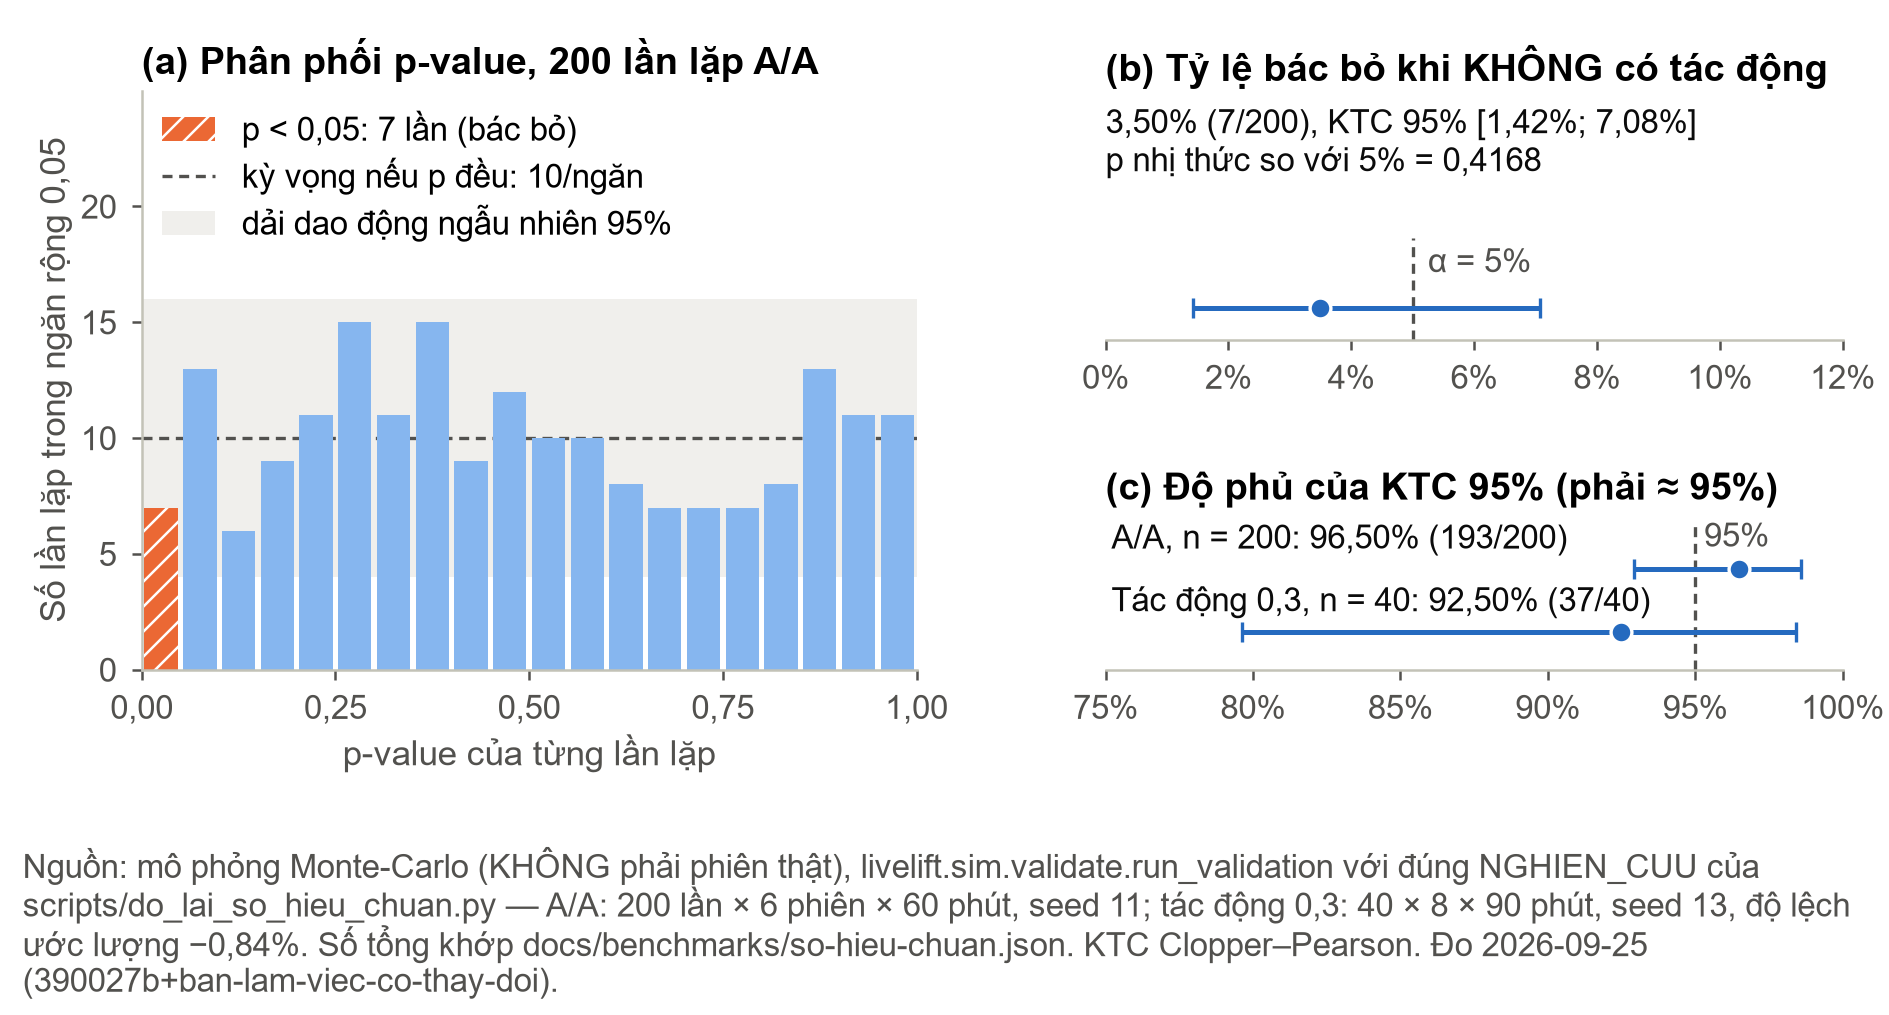
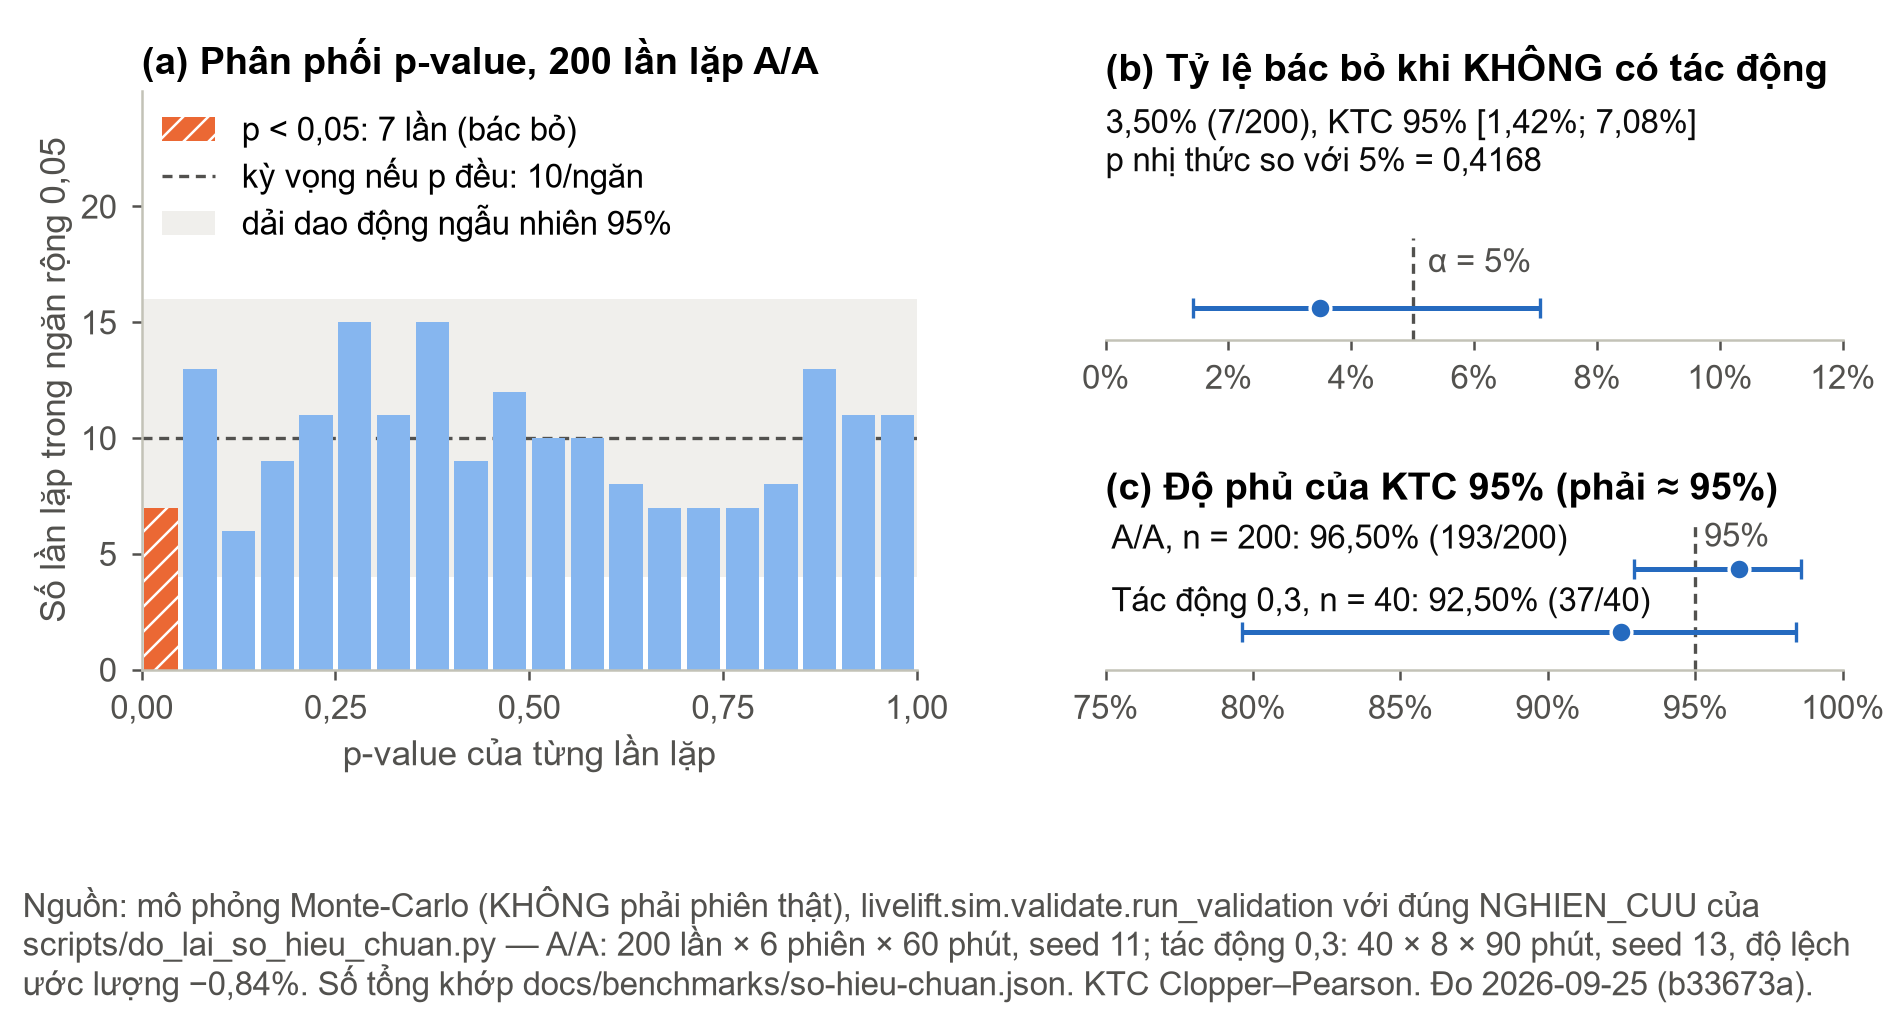
Hinh 3 va 5 ho so: tinh lai Monte-Carlo tren cay sach b33673a
Vi sao: chan hinh 3 va 5 in ban_git cua lan tinh, dang la
"390027b+ban-lam-viec-co-thay-doi" (tinh tren cay ban, khong ai tai lap
duoc tu mot commit). Chay lai ve_hinh_ho_so.py --tinh-lai (ca h1-h7) tren
cay SACH o b33673a; ban git doc mot lan dau main nen ca hai tep ghi b33673a.
Them cong du lieu: ban_git cua hieu-chuan.json va hieu-ung-luu.json phai la
mot commit (mo rong 2 test co san, khong them test moi nen so test khong doi).

Kiem bang:
- Tinh lai trung TUNG lan lap voi ban cu (chi doi ban_git, giay, moi_truong).
- Script tu doi chieu so-hieu-chuan.json: A/A 7/200 (3,50%), phu 193/200
  (96,50%); thu hoi phu 37/40 (92,50%), lech -0,84%. Hieu ung luu 72/75,
  57/75, 43/75 (96/76/57%).
- h1, h2, h4, h6, h7 ve lai trung tung byte; NGUON.md, tom-tat.json khong doi.
- tests/test_ve_hinh_ho_so.py: 2 do truoc tren du lieu cu (dung ly do
  ban_git ban), 50 passed sau; ruff sach.

Changed region(s): [[0.0, 0.8246, 0.9995, 1.0]]

diff --git a/tests/test_ve_hinh_ho_so.py b/tests/test_ve_hinh_ho_so.py
@@ -10,7 +10,8 @@ rẻ tiền trong bộ test nhanh:
 2. Tham số cổng hiệu ứng lưu mà hình 5 bóc bằng ``ast`` TRÙNG với tham số cổng thật sự
    gọi. Phép kiểm đi đường khác hẳn ``ast``: CHẠY hàm cổng với ``run_validation`` giả
    rồi ghi lại lời gọi.
-3. Số đếm trong ``hinh/du-lieu/hieu-chuan.json`` khớp ``docs/benchmarks/so-hieu-chuan.json``.
+3. Số đếm trong ``hinh/du-lieu/hieu-chuan.json`` khớp ``docs/benchmarks/so-hieu-chuan.json``;
+   cả hai tệp Monte-Carlo (hình 3, 5) được tính trên cây sạch, đúng một commit.
 4. Số trên hình 6 lấy đúng từ ``docs/benchmarks/intent-eval/chi-tiet-hinh.json``, và
    bản PNG/NGUON.md đang nằm trong kho được vẽ từ đúng bản JSON hiện tại.
 
@@ -24,6 +25,7 @@ import copy
 import dataclasses
 import importlib.util
 import json
+import re
 import struct
 from pathlib import Path
 
@@ -44,6 +46,14 @@ LY_DO_THIEU_MPL = (
 
 def _doc(duong: Path) -> dict:
     return json.loads(duong.read_text(encoding="utf-8"))
+
+
+def _tinh_tren_cay_sach(du_lieu: dict) -> None:
+    """Chân hình 3/5 in ``ban_git`` của lần tính: phải là MỘT commit, không kèm thay đổi chưa
+    commit (25/09/2026: hai tệp mang "390027b+ban-lam-viec-co-thay-doi" — không ai tái lập
+    được từ một commit). Tính lại bằng ``--tinh-lai`` trên cây sạch rồi commit."""
+    ban = du_lieu["ban_git"]
+    assert re.fullmatch(r"[0-9a-f]{7,40}", ban), f"ban_git = {ban!r}: tính trên cây bẩn/không rõ"
 
 
 @pytest.fixture(scope="module")
@@ -194,12 +204,13 @@ def test_tham_so_cong_doc_tu_ma_nguon_khong_chep_tay(vh, monkeypatch, tmp_path):
 
 def test_du_lieu_hinh5_tinh_voi_tham_so_cong_hien_hanh(vh):
     """hieu-ung-luu.json tính với tham số khác cổng hiện tại = hình 5 đã cũ."""
-    mong_doi = _doc(DU_LIEU / "hieu-ung-luu.json")["tham_so_mong_doi"]
-    assert mong_doi == {
+    du_lieu = _doc(DU_LIEU / "hieu-ung-luu.json")
+    assert du_lieu["tham_so_mong_doi"] == {
         "cong": vh.tham_so_cong_hieu_ung_luu(),
         "ban_ra_s": list(vh.BAN_RA_S),
         "seed_them": list(vh.SEED_THEM),
     }
+    _tinh_tren_cay_sach(du_lieu)
 
 
 # ============================================================ 3. số hiệu chuẩn
@@ -217,6 +228,7 @@ def test_dem_trong_hieu_chuan_json_khop_so_hieu_chuan():
         assert f"{sum(p < alpha for p in kq['p_values'])}/{n}" == c["so_lan_bac_bo"]
         assert f"{sum(bool(x) for x in kq['co_phu'])}/{n}" == c["so_lan_phu"]
         assert round(kq["do_lech_tuong_doi"], 4) == c["do_lech_tuong_doi"]
+    _tinh_tren_cay_sach(du_lieu)
 
 
 def test_kiem_khop_so_hieu_chuan_dung_khi_lech(vh):
